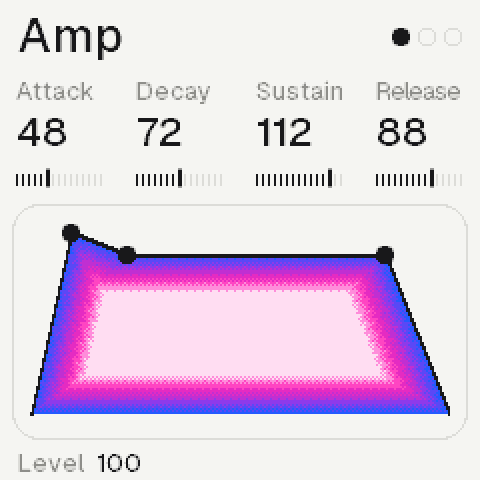
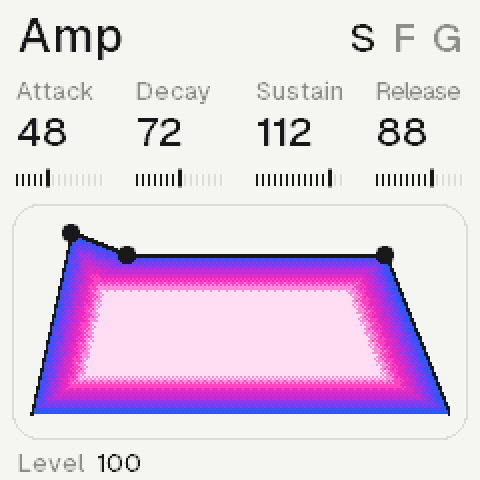
The head names the synths by their sounds' initials, S F G, the current in ink

Changed region(s): [[0.8125, 0.0312, 0.9688, 0.125], [0.7188, 0.0312, 0.7812, 0.125]]

diff --git a/firmware/src/dmk_ui.c b/firmware/src/dmk_ui.c
@@ -358,10 +358,14 @@ static void head(void)
     const page_t *pg = &PAGE[ui.page];
     int x = text(PAD + 1, 6, pg->name, &FH, C_INK), i;
     if (pg->rows > 1) text(x + 7, 6, pg->row[ui.row[ui.page]], &FH, C_LABEL);
-    for (i = 0; i < DMK_SYNTHS; i++) {
-        int sx = DMK_W - PAD - 1 - (DMK_SYNTHS - i) * 13 + 4;
-        if (i == ui.synth) round_fill(sx, 14, 9, 9, 4, C_INK);
-        else round_line(sx, 14, 9, 9, 4, 1, C_LINE);
+    {                                                   /* the synths by their sounds' initials: S F G, the current in ink */
+        int rx = DMK_W - PAD - 1, y = 6 + FH.ascent - FM.ascent;
+        for (i = DMK_SYNTHS - 1; i >= 0; i--) {
+            char ini[2] = {DMK_SAMPLES[VS(i, PG_SOUND, 0, 0)].name[0], 0};
+            if (ini[0] >= 'a' && ini[0] <= 'z') ini[0] = (char)(ini[0] - 32);
+            text_r(rx, y, ini, &FM, i == ui.synth ? C_INK : C_LABEL);
+            rx -= text_w(ini, &FM) + 8;
+        }
     }
 }
 
